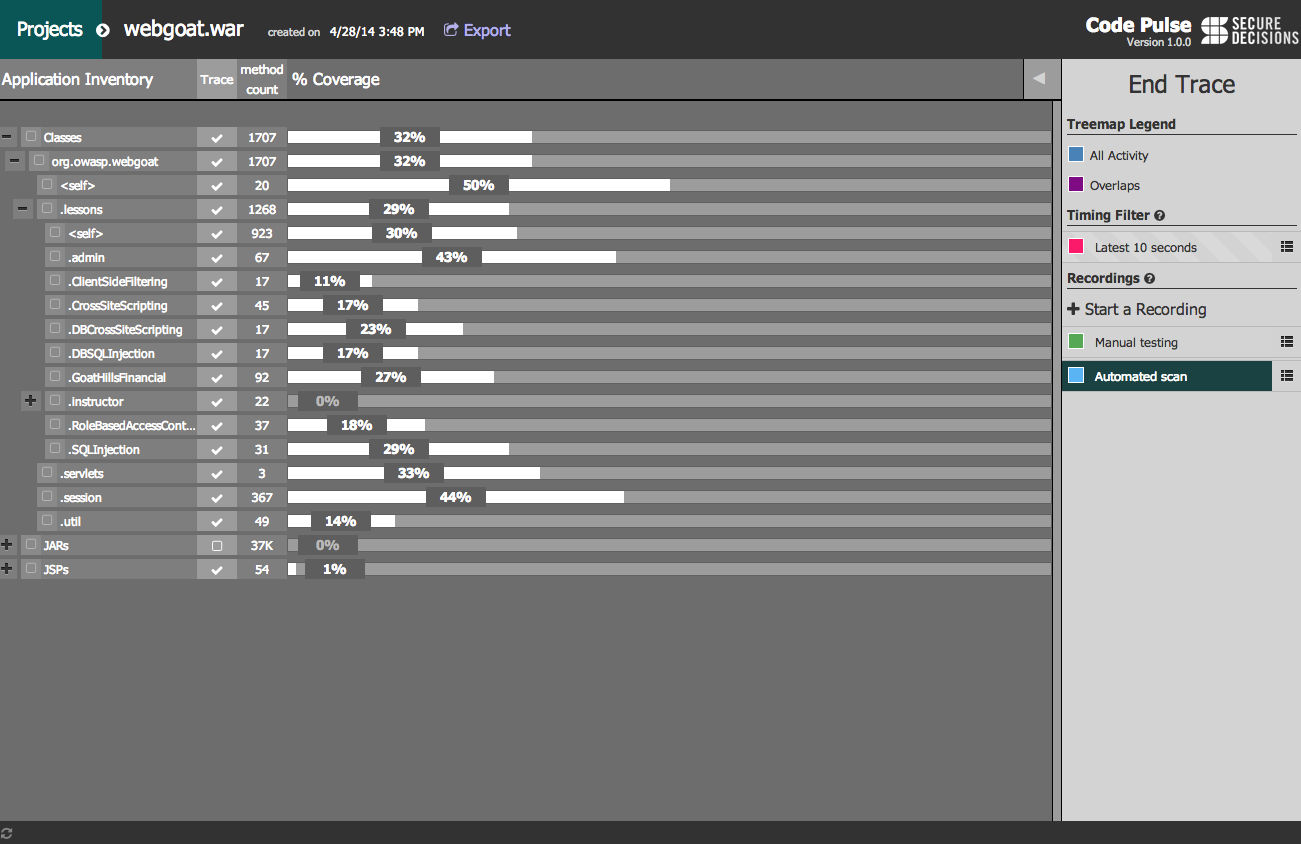
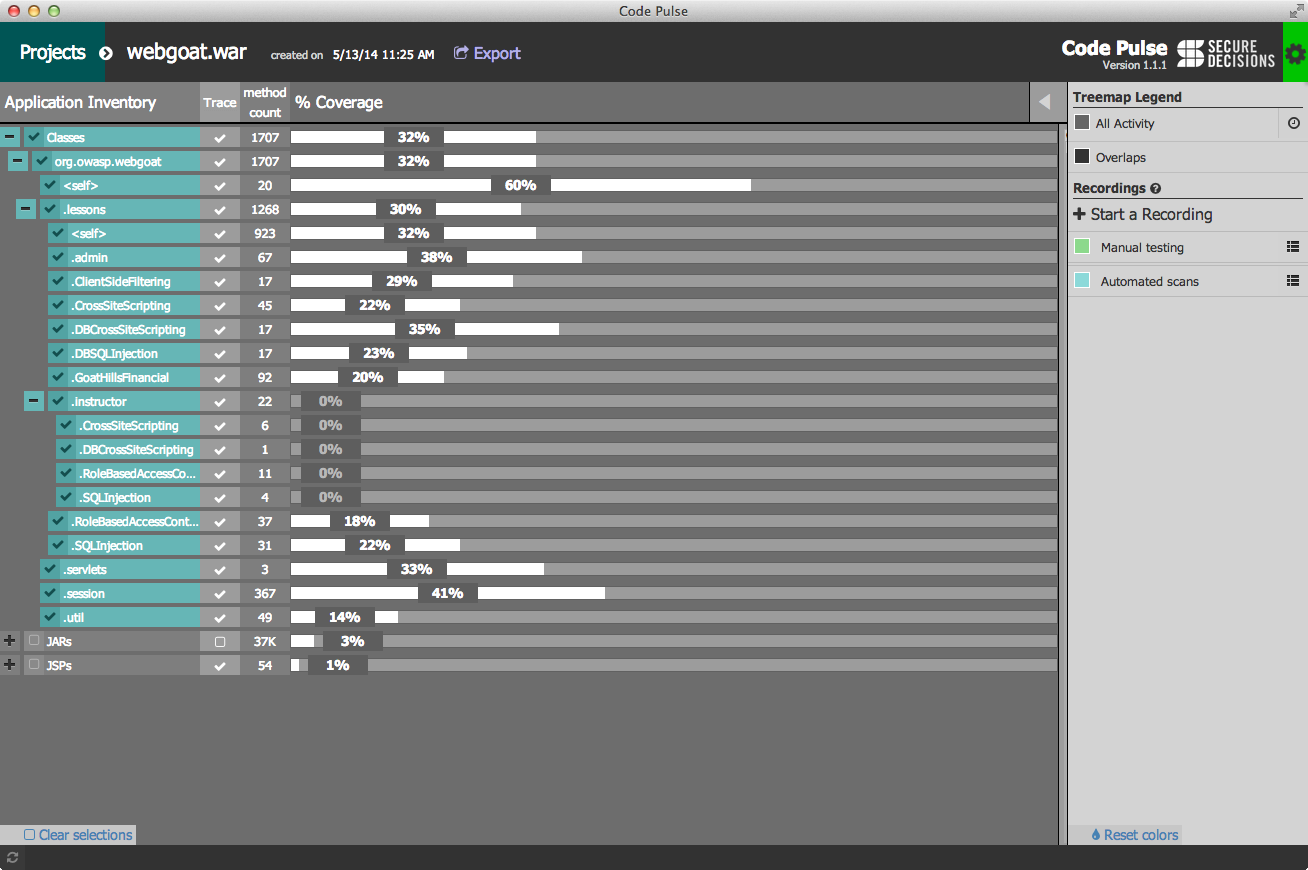
Updating the website with 1.1 version numbering and download links. Updating screenshots for the latest version.

diff --git a/templates/overview.template.html b/templates/overview.template.html
@@ -1,4 +1,4 @@
 <div class="text-center">
 	<h3>Code Pulse is a free real-time code coverage tool for penetration testing activities</h3>
-	<a href="{{url 'download'}}" class="btn btn-lg btn-primary">Download Code Pulse<span class="version">Version 1.0</span></a>
+	<a href="{{url 'download'}}" class="btn btn-lg btn-primary">Download Code Pulse<span class="version">Version 1.1</span></a>
 </div>
